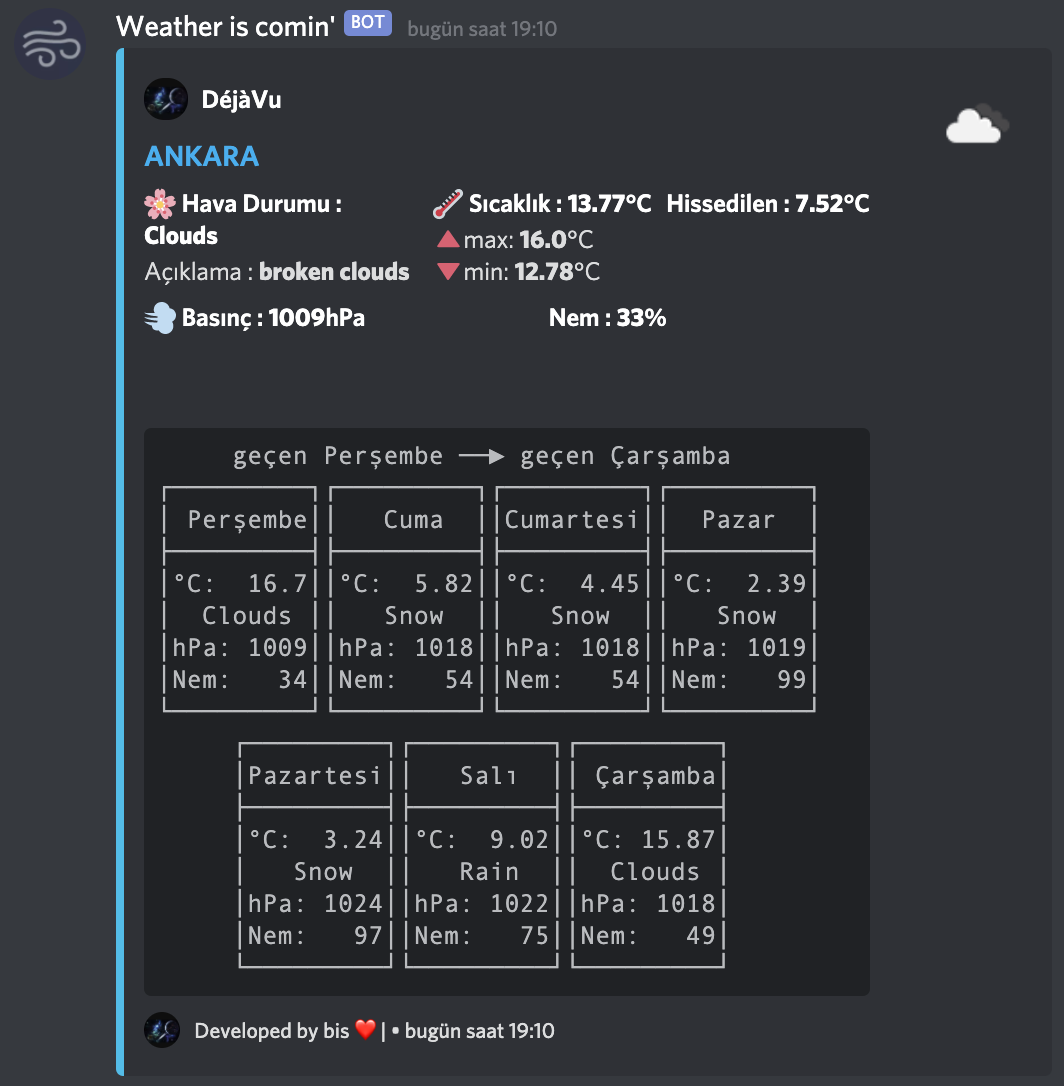
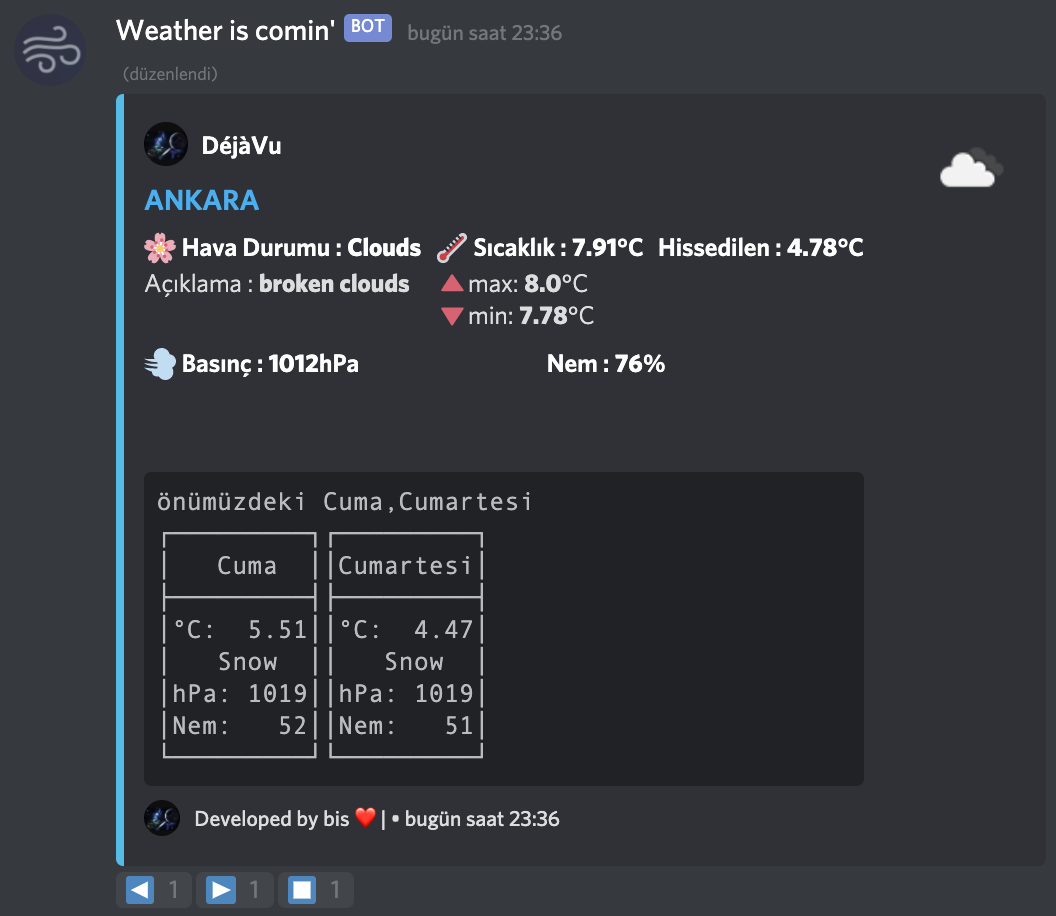
Added some changes to visible contents

Changed region(s): [[0.0, 0.0, 0.8125, 1.0], [0.875, 0.0917, 0.9688, 0.214], [0.6562, 0.4585, 0.7188, 0.4891]]

diff --git a/README.md b/README.md
@@ -4,7 +4,7 @@ Discord opsiyonel detaylı hava durumu botu
 
 
 ``` 
-     geçen Perşembe ──► geçen Çarşamba      
+     önümüzdeki Perşembe ──► önümüzdeki Çarşamba      
 ┌─────────┐┌─────────┐┌─────────┐┌─────────┐
 │ Perşembe││   Cuma  ││Cumartesi││  Pazar  │
 ├─────────┤├─────────┤├─────────┤├─────────┤
@@ -22,7 +22,7 @@ Discord opsiyonel detaylı hava durumu botu
      │Nem:   97││Nem:   75││Nem:   49│
      └─────────┘└─────────┘└─────────┘
 ```
-> `Son 7 gün hava durumu`
+> `önümüzdeki 7 günlük hava durumu tahminleri`
 
 ---
 
@@ -36,17 +36,21 @@ Discord opsiyonel detaylı hava durumu botu
 |Python ile bot yazmak|[Tıkla !](https://discordpy.readthedocs.io/en/stable/)||
 
 
----
+***
+
+## Örnek Çıktı
+![Projeye Yıldız ekleme 🌟](https://github.com/Deja-Vu1/WeatherBot/blob/main/Img/discordcikti.gif)
+
 
 ## Projeye Yıldız ekleme 🌟
 ![Projeye Yıldız ekleme 🌟](https://github.com/Deja-Vu1/WeatherBot/blob/main/Img/yildiz.gif)
 
----
+*****
 ### Hatalı komut çalıştırma durumunda
 <img src="https://github.com/Deja-Vu1/WeatherBot/blob/main/Img/error.png" width="500" height="auto">
 
 
-### Örnek komut resmi
+### Örnek komut
 <img src="https://github.com/Deja-Vu1/WeatherBot/blob/main/Img/Ankaraörn.png" width="500" height="auto">
 
 ---
